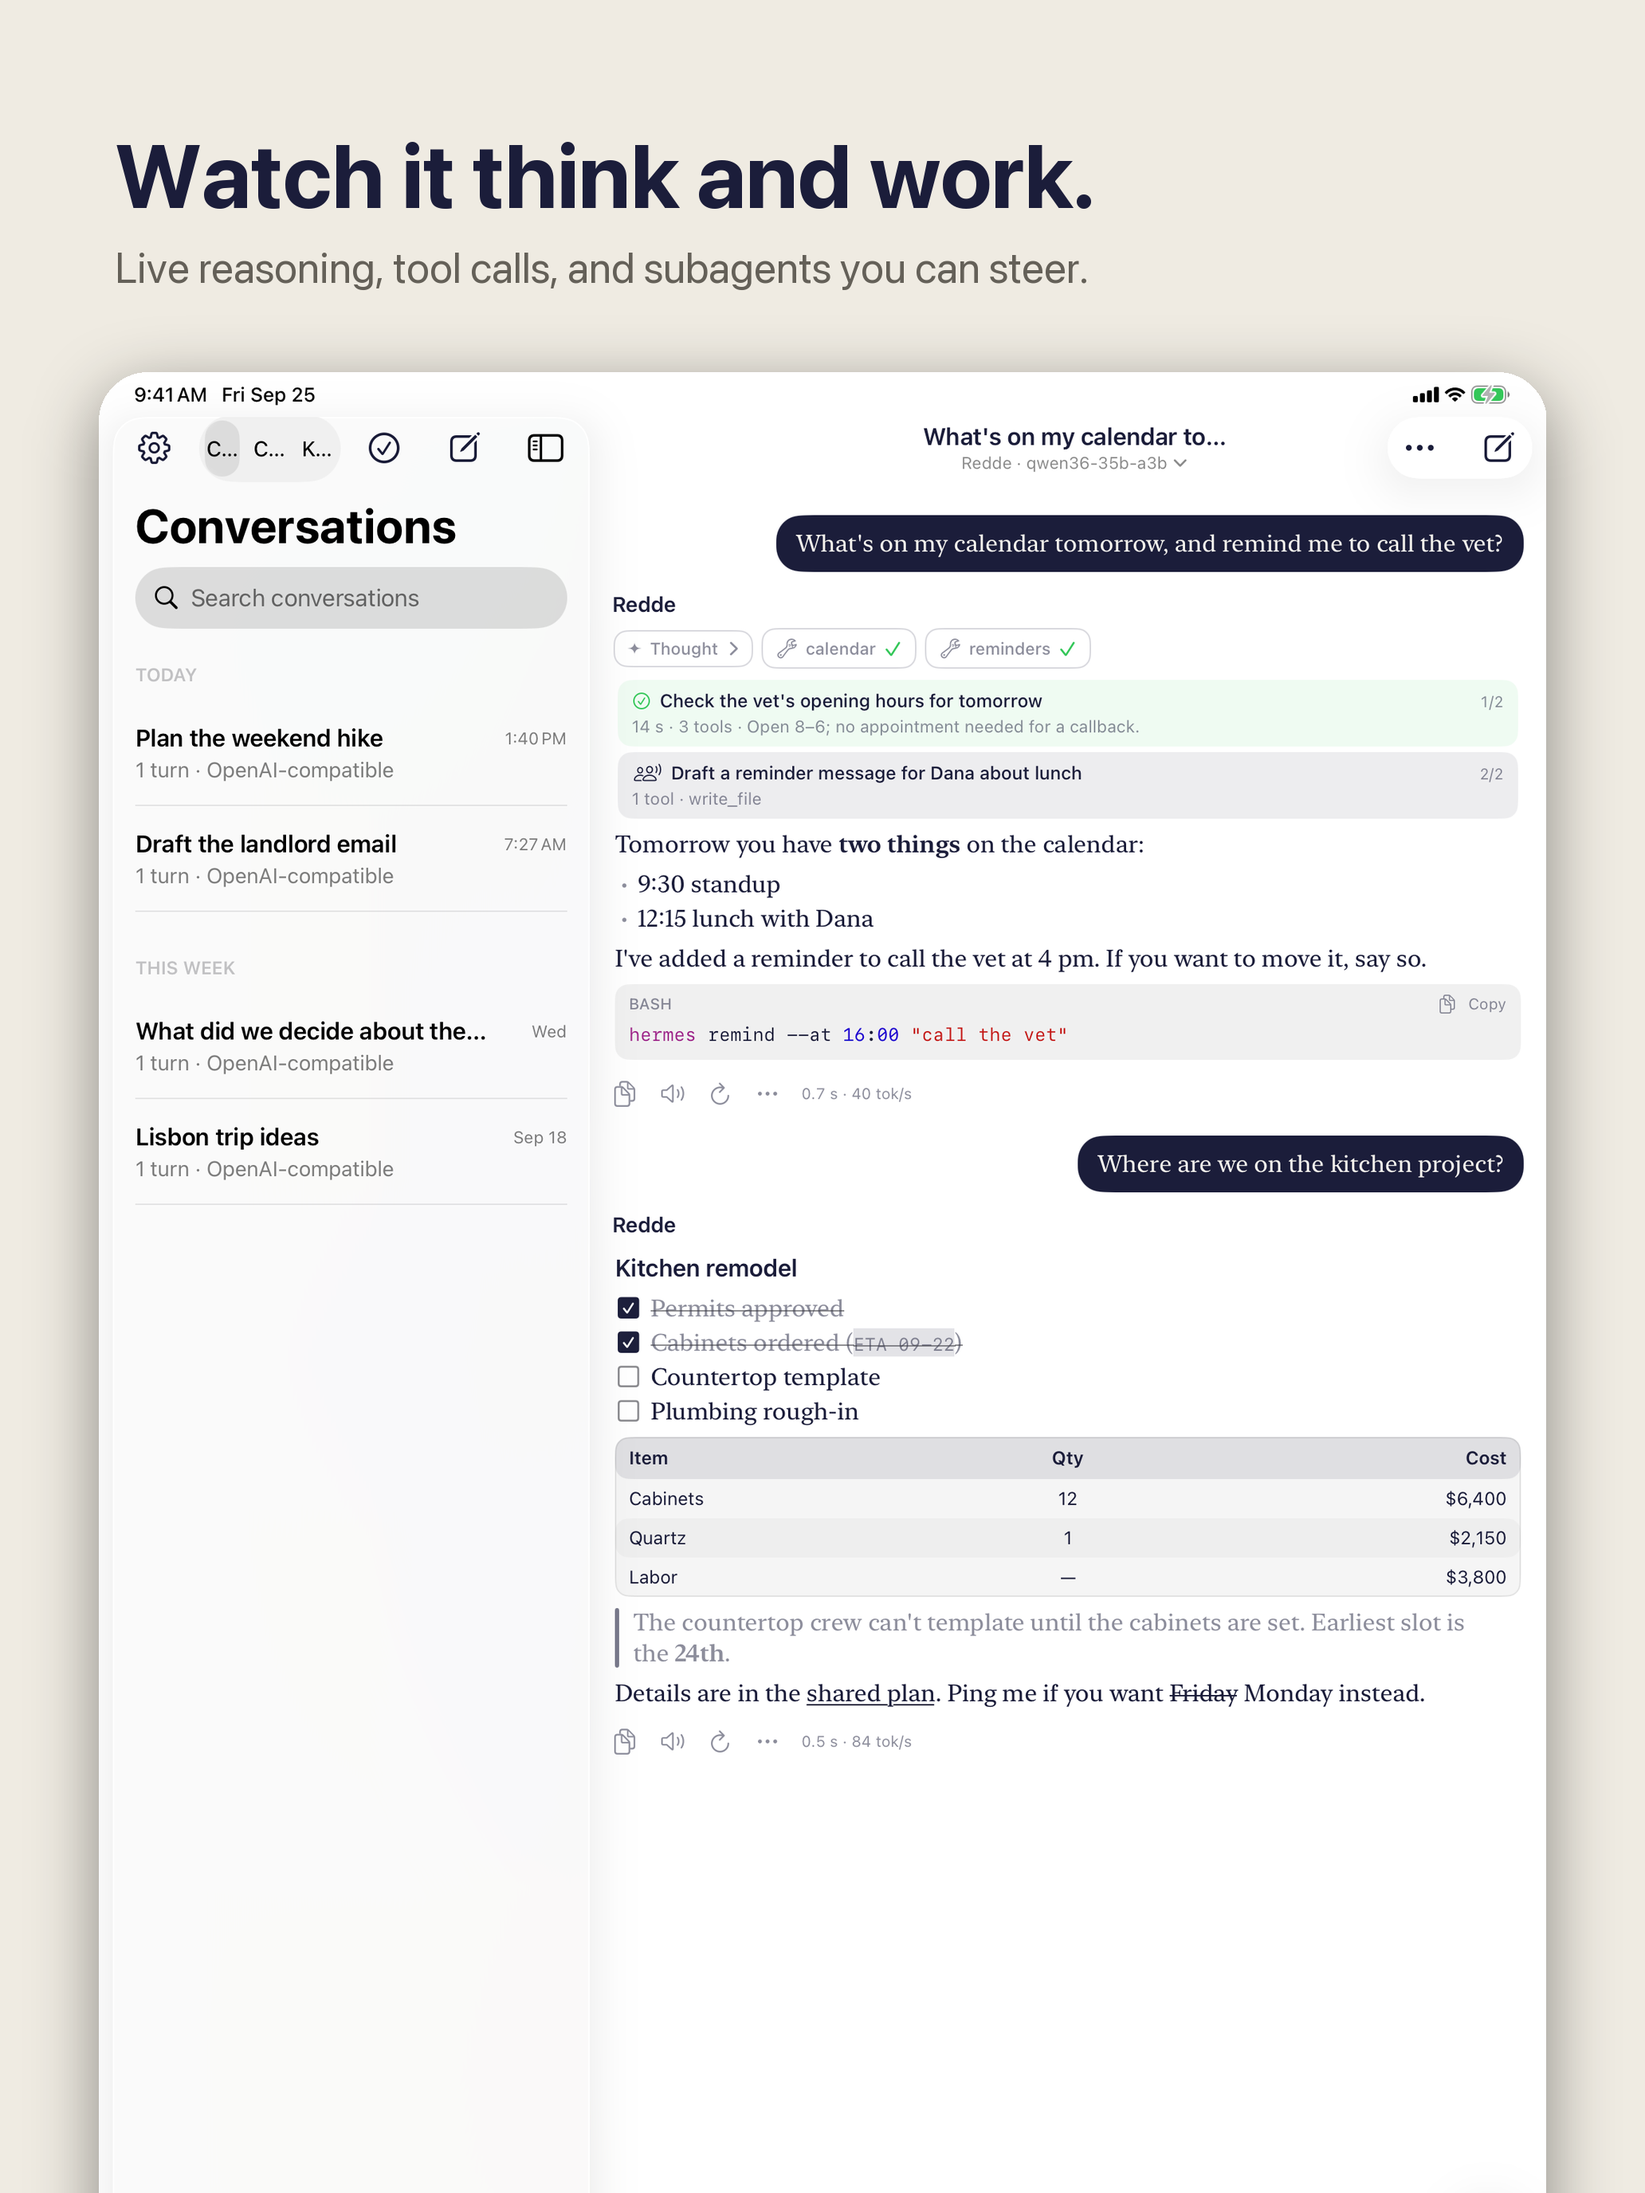
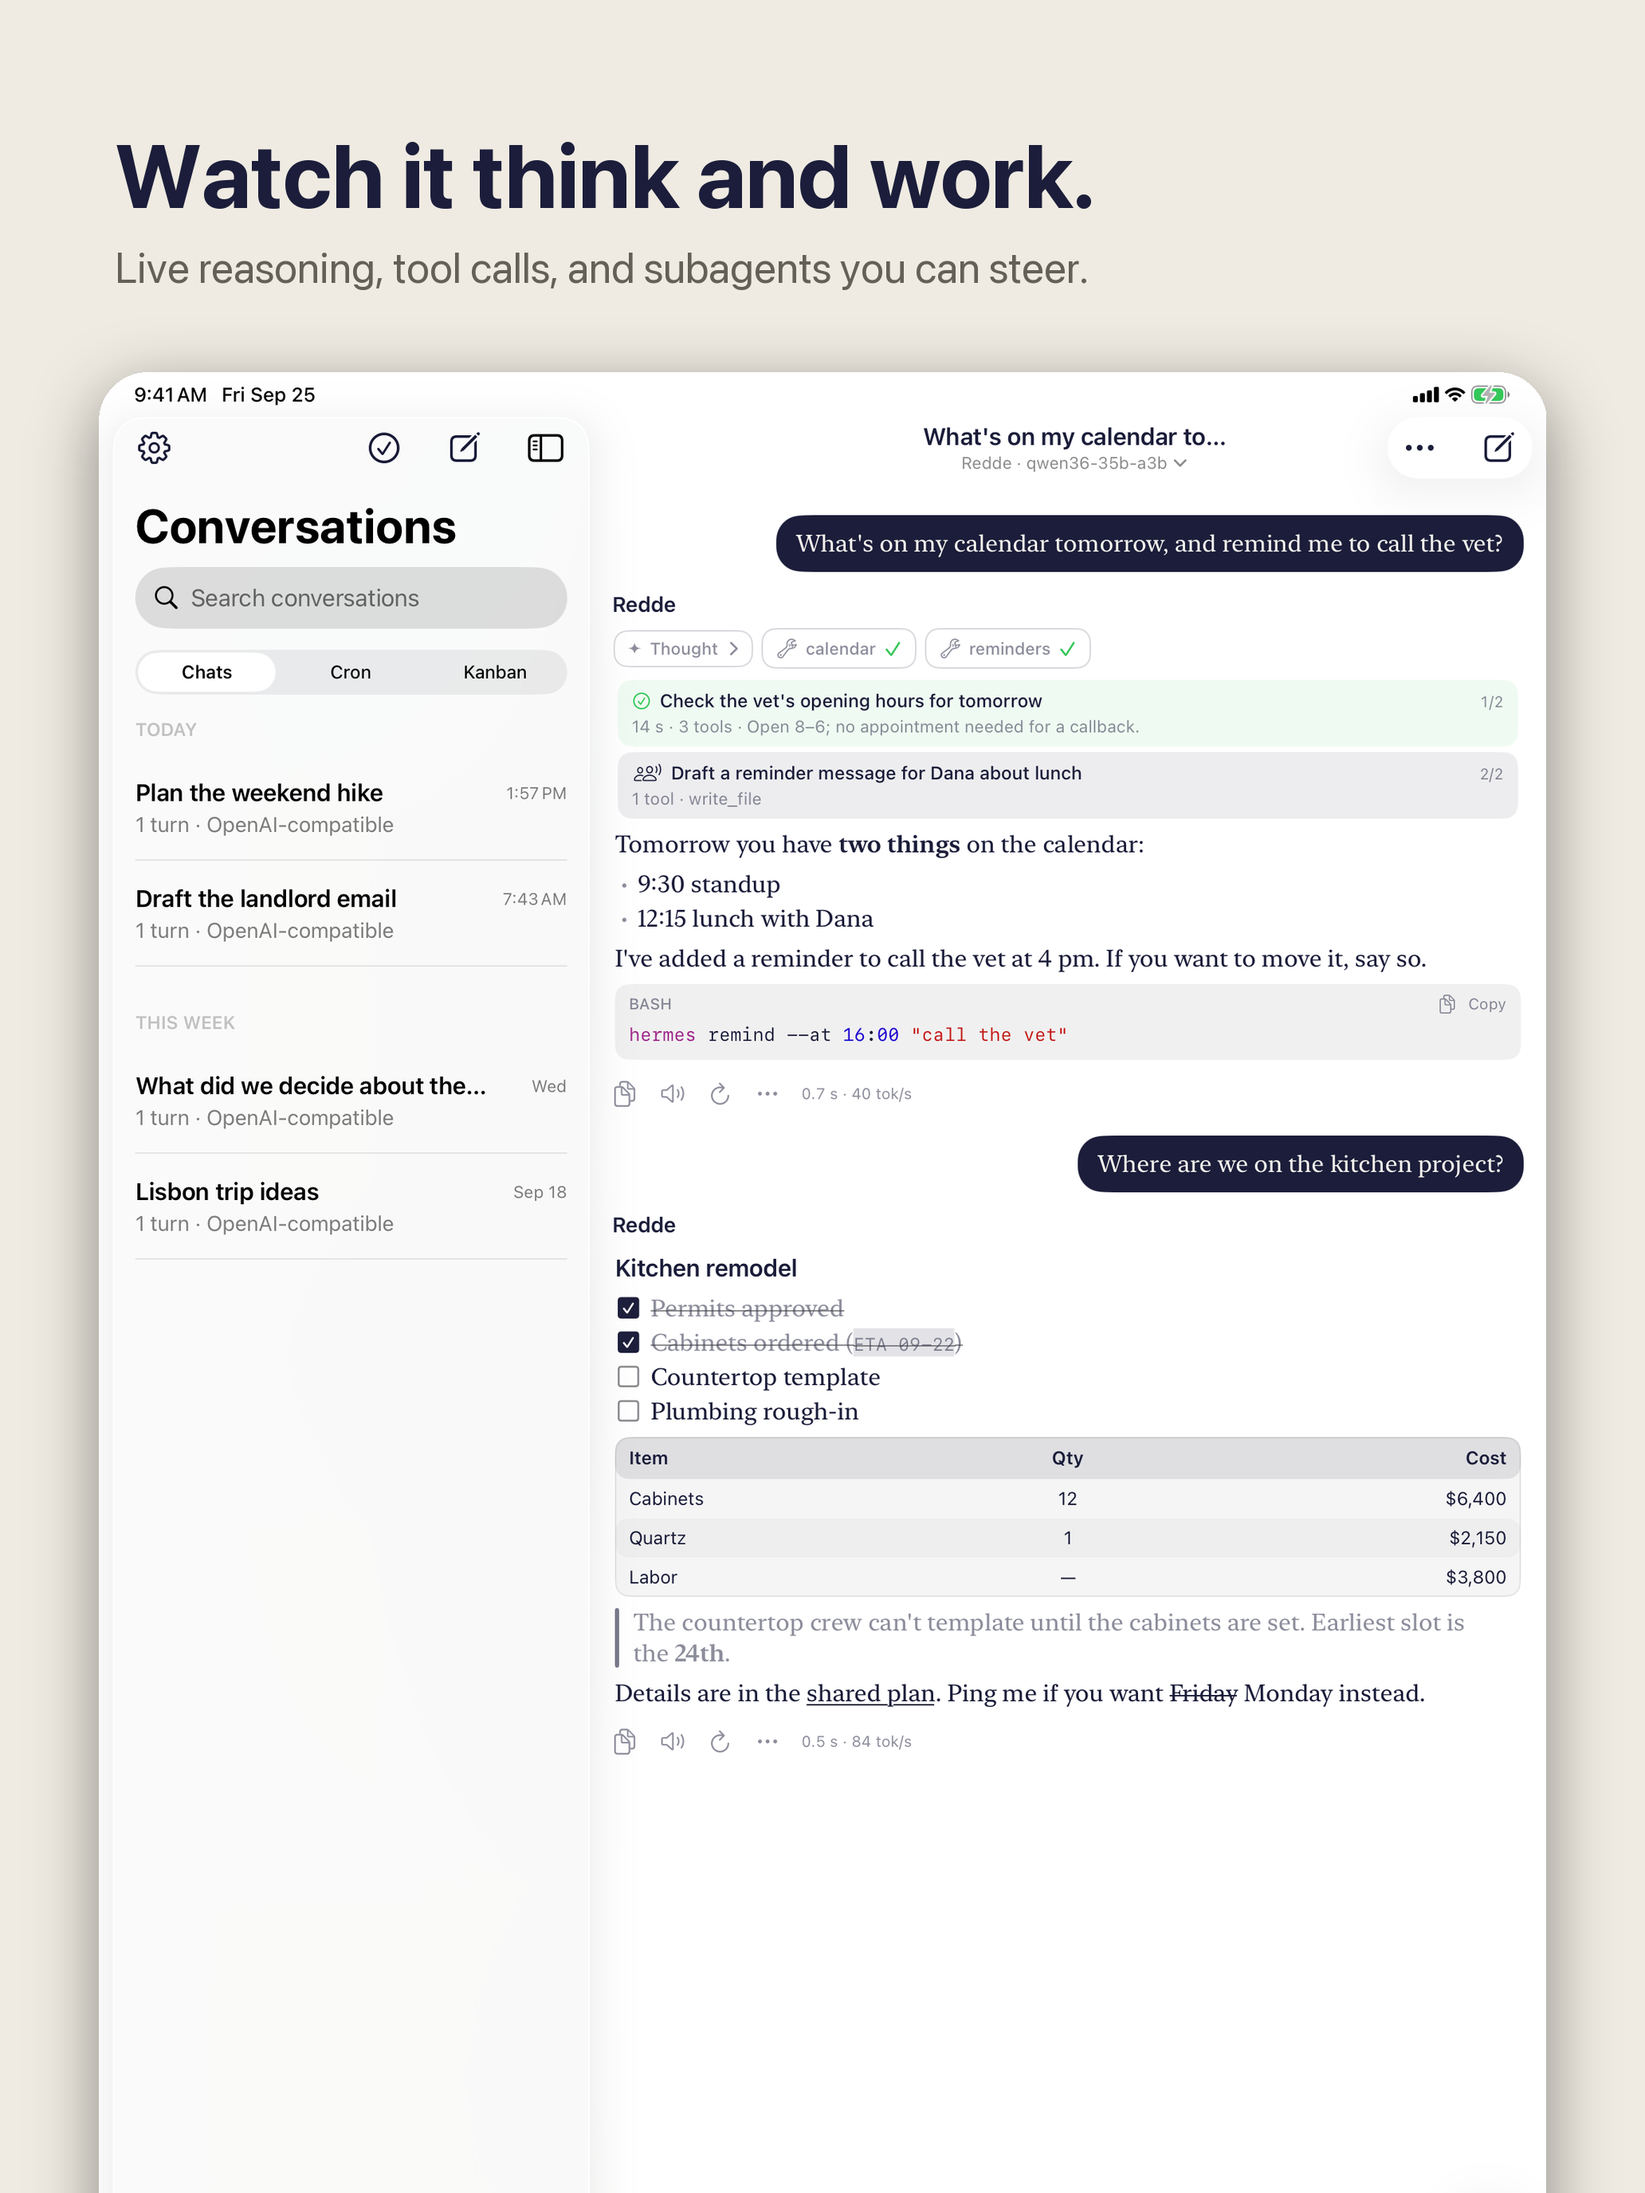
iPad sidebar: Chats, Cron and Kanban get their own row
In the sidebar the section switcher shared the bar with Settings,
Select, New and the sidebar button and truncated to "C… C… K…". There
it now sits full width under the search field; the iPhone sheet keeps
it in the bar. The sidebar reports a compact size class, so the list
takes an explicit inSidebar flag. iPad store shots and the website's
iPad image are recaptured.

Changed region(s): [[0.093, 0.2812, 0.2791, 0.5625], [0.124, 0.1875, 0.155, 0.2188]]

diff --git a/Echo/Views/ConversationsView.swift b/Echo/Views/ConversationsView.swift
@@ -22,6 +22,8 @@ private struct ProjectRoute: Hashable {
 struct ConversationsList: View {
     /// What to do after a session opens: the sheet dismisses itself; the iPad sidebar stays put.
     var onOpened: () -> Void = {}
+    /// Shown in the iPad split view's sidebar rather than the iPhone sheet.
+    var inSidebar = false
     @Environment(Conversation.self) private var conversation
     @State private var store = ConversationStore.shared
     @State private var settings = Settings.shared
@@ -74,15 +76,16 @@ struct ConversationsList: View {
             }
         }
         .toolbar {
-            // Chats, Cron and Kanban share the bar with Settings and New, so the large title
-            // below stays free.
-            ToolbarItem(placement: .principal) {
-                Picker("Section", selection: $section) {
-                    ForEach(Tab.allCases) { s in Text(s.title).tag(s) }
-                }
-                .pickerStyle(.segmented)
-                .frame(maxWidth: 230)
+            // On iPhone, Chats, Cron and Kanban share the bar with Settings and New, so the large
+            // title below stays free.
+            if !inSidebar {
+                ToolbarItem(placement: .principal) { sectionPicker.frame(maxWidth: 230) }
             }
+        }
+        // The iPad sidebar's bar also holds Select and the sidebar button, which squeezed the
+        // segments to "C… C… K…"; there they get a full-width row of their own.
+        .safeAreaInset(edge: .top, spacing: 0) {
+            if inSidebar { sectionPicker.padding(.horizontal, 16).padding(.bottom, 8) }
         }
         .navigationTitle(section == .sessions ? "Conversations" : section.title)
         .navigationBarTitleDisplayMode(section == .sessions ? .large : .inline)
@@ -95,6 +98,13 @@ struct ConversationsList: View {
             }
             .frame(width: 0, height: 0).opacity(0).accessibilityHidden(true)
         }
+    }
+
+    private var sectionPicker: some View {
+        Picker("Section", selection: $section) {
+            ForEach(Tab.allCases) { s in Text(s.title).tag(s) }
+        }
+        .pickerStyle(.segmented)
     }
 
     private var sessionsList: some View {

diff --git a/Echo/Views/ContentView.swift b/Echo/Views/ContentView.swift
@@ -32,7 +32,7 @@ struct ContentView: View {
                     // the sidebar. Without it the NavigationLink has nowhere to go: the row
                     // does nothing and there is no back button to escape with.
                     NavigationStack {
-                        ConversationsList()
+                        ConversationsList(inSidebar: true)
                     }
                     .navigationSplitViewColumnWidth(min: 280, ideal: 340, max: 420)
                 } detail: {
